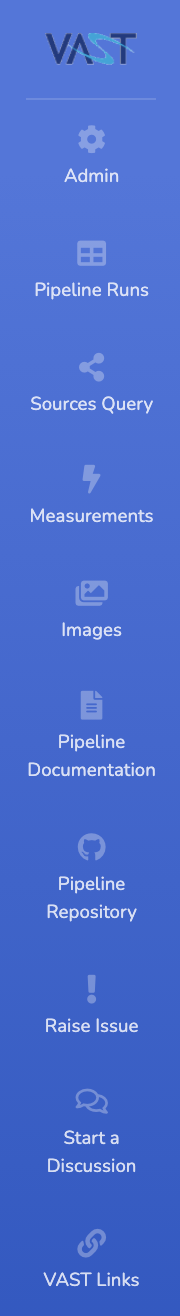
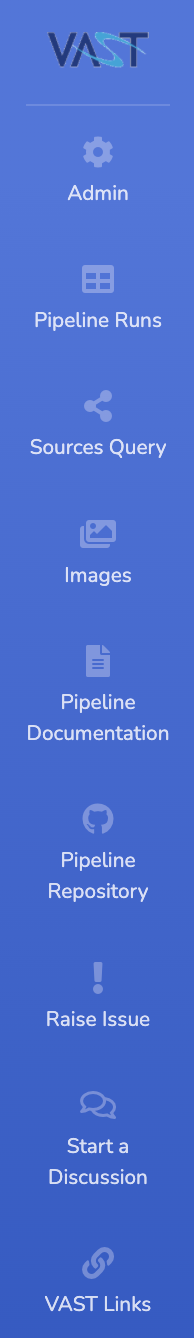
Remove excessive measurement tables
- Removed measurement list page from website.
- Removed measurements table from run detail page.
- Updated docs to reflect important changes.

diff --git a/templates/run_detail.html b/templates/run_detail.html
@@ -308,7 +308,7 @@
             <i class="fa fa-chevron-down pull-right"></i>
             Generate Arrow Files Log File
           </a>
-          <div class="float-right" id="restorelogfileSelector">
+          <div class="float-right" id="genarrowLogfileSelector">
             <select name="genarrowlogs" id="genarrowlogs">
               {% for log in genarrow_log_files %}
                 <option value="{{ log }}">{{ log }}</option>
@@ -339,7 +339,7 @@
         <div class="collapse show" id="collapseImages">
           <div class="card-body">
             <div class="table-responsive">
-              <table class="table table-bordered table-striped table-hover" id="{{ datatables.0.table_id }}" width="100%" cellspacing="0">
+              <table class="table table-bordered table-striped table-hover" id="dataTable" width="100%" cellspacing="0">
                 <thead>
                   <tr>
                     {% for name in datatables.0.colsNames %}
@@ -350,43 +350,6 @@
                 <tfoot>
                   <tr>
                     {% for name in datatables.0.colsNames %}
-                      <th>{{ name }}</th>
-                    {% endfor %}
-                  </tr>
-                </tfoot>
-              </table>
-            </div>
-          </div>
-        </div>
-      </div>
-    </div>
-  </div>
-
-  <!-- Measurements table -->
-  <div class="row">
-    <div class="col">
-      <div class="card shadow mb-4">
-        <h6 class="card-header m-0 font-weight-bold text-primary">
-          <a data-toggle="collapse" href="#collapseMeas" aria-expanded="true" aria-controls="collapseMeas" id="measHeader" class="d-block">
-            <i class="fa fa-chevron-down pull-right"></i>
-            Measurements
-          </a>
-        </h6>
-        <!-- Card Content - Collapse -->
-        <div class="collapse show" id="collapseMeas">
-          <div class="card-body">
-            <div class="table-responsive">
-              <table class="table table-bordered table-striped table-hover" id="{{ datatables.1.table_id }}" width="100%" cellspacing="0">
-                <thead>
-                  <tr>
-                    {% for name in datatables.1.colsNames %}
-                      <th>{{ name }}</th>
-                    {% endfor %}
-                  </tr>
-                </thead>
-                <tfoot>
-                  <tr>
-                    {% for name in datatables.1.colsNames %}
                       <th>{{ name }}</th>
                     {% endfor %}
                   </tr>

diff --git a/templates/base.html b/templates/base.html
@@ -77,14 +77,6 @@
         </a>
       </li>
 
-      <!-- Nav Item - Measurements -->
-      <li class="nav-item">
-        <a class="nav-link collapsed" href="{% url 'vast_pipeline:measurement_index' %}">
-          <i class="fas fa-fw fa-bolt"></i>
-          <span>Measurements</span>
-        </a>
-      </li>
-
       <!-- Nav Item - Images -->
       <li class="nav-item">
         <a class="nav-link collapsed" href="{% url 'vast_pipeline:image_index' %}">

diff --git a/templates/index.html b/templates/index.html
@@ -83,7 +83,6 @@
                 <i class="fas fa-bolt fa-2x text-gray-300"></i>
               </div>
             </div>
-            <a href="{% url 'vast_pipeline:measurement_index' %}" class="stretched-link"></a>
           </div>
         </div>
     </div>

diff --git a/vast_pipeline/views.py b/vast_pipeline/views.py
@@ -674,7 +674,7 @@ def RunDetail(request, id):
     )
 
     image_datatable = {
-        'table_id': 'imageTable',
+        'table_id': 'dataTable',
         'api': (
             reverse('vast_pipeline:api_pipe_runs-images', args=[p_run['id']]) +
             '?format=datatables'
@@ -697,66 +697,9 @@ def RunDetail(request, id):
         'order': [1, 'asc']
     }
 
-    meas_fields = [
-        'name',
-        'ra',
-        'ra_err',
-        'uncertainty_ew',
-        'dec',
-        'dec_err',
-        'uncertainty_ns',
-        'flux_peak',
-        'flux_peak_err',
-        'flux_peak_isl_ratio',
-        'flux_int',
-        'flux_int_err',
-        'flux_int_isl_ratio',
-        'frequency',
-        'compactness',
-        'snr',
-        'has_siblings',
-        'forced'
-    ]
-
-    meas_colsfields = generate_colsfields(
-        meas_fields,
-        {'name': reverse('vast_pipeline:measurement_detail', args=[1])[:-2]},
-        not_searchable_col=['frequency']
-    )
-
-    meas_datatable = {
-        'table_id': 'measTable',
-        'api': (
-            reverse('vast_pipeline:api_pipe_runs-measurements', args=[p_run['id']]) +
-            '?format=datatables'
-        ),
-        'colsFields': meas_colsfields,
-        'colsNames': [
-            'Name',
-            'RA (deg)',
-            'RA Error (arcsec)',
-            'Uncertainty EW (arcsec)',
-            'Dec (deg)',
-            'Dec Error (arcsec)',
-            'Uncertainty NS (arcsec)',
-            'Peak Flux (mJy/beam)',
-            'Peak Flux Error (mJy/beam)',
-            'Peak Flux Isl. Ratio',
-            'Int. Flux (mJy)',
-            'Int. Flux Error (mJy)',
-            'Int. Flux Isl. Ratio',
-            'Frequency (MHz)',
-            'Compactness',
-            'SNR',
-            'Has siblings',
-            'Forced Extraction'
-        ],
-        'search': True,
-    }
-
     context = {
         "p_run": p_run,
-        "datatables": [image_datatable, meas_datatable],
+        "datatables": [image_datatable],
         "d3_celestial_skyregions": get_skyregions_collection(run_id=id),
         "static_url": settings.STATIC_URL,
         "log_files": log_files,
@@ -2582,11 +2525,11 @@ class UtilitiesSet(ViewSet):
         ned_results = self._external_search_error_handler(
             external_query.ned, coord, radius, "NED", request
         )
-        tns_results = self._external_search_error_handler(
-            external_query.tns, coord, radius, "TNS", request
-        )
+        # tns_results = self._external_search_error_handler(
+        #     external_query.tns, coord, radius, "TNS", request
+        # )
 
-        results = simbad_results + ned_results + tns_results
+        results = simbad_results + ned_results # + tns_results
         serializer = ExternalSearchSerializer(data=results, many=True)
         serializer.is_valid(raise_exception=True)
         return Response(serializer.data)

diff --git a/docs/exploringwebsite/measurementdetail.md b/docs/exploringwebsite/measurementdetail.md
@@ -1,22 +1,10 @@
-# Measurement Pages
-
-This page details the website pages for information on the measurements.
-
-## List of Measurements
-
-A list of measurements that have been ingested into the pipeline database from **all** pipeline runs, along with their statistics, is shown on this page.
-From this page the full detail page of a specific measurement can be accessed by clicking on the name of the measurement. 
-Explanation of the table options can be found in the [DataTables section](datatables.md).
-
-![!Pipeline measurements table.](../img/measurements-list.png){: loading=lazy }
-
-## Measurement Detail Page
+# Measurement Detail Page
 
 This page presents all the information about the selected measurement, including a postage stamp cutout of the component.
 
 ![!Measurement detail page.](../img/measurement-detail1.png){: loading=lazy }
 
-### SIMBAD, NED, Previous & Next Buttons
+## SIMBAD, NED, Previous & Next Buttons
 
 These buttons do the following:
 
@@ -25,18 +13,18 @@ These buttons do the following:
 * **Previous**: Navigates to the previous measurement by `id` value.
 * **Next**: Navigates to the next measurement by `id` value.
 
-### Details
+## Details
 
 A text representation of details of the measurement.
 
-### Aladin Lite Viewer
+## Aladin Lite Viewer
 
 [Aladin Lite Documentation](https://aladin.u-strasbg.fr/AladinLite/doc/){ target=_blank }.
 
 The central panel contains an Aladin Lite viewer, which by default displays the HIPS image from the [Rapid ASKAP Continuum Survey](https://research.csiro.au/racs/){ target=_blank }, centred on the location of the measurement.
 Other surveys are available such as all epochs of the VAST Pilot Survey (including Stokes V) and other wavelength surveys such as 2MASS.
 
-### JS9 Viewer
+## JS9 Viewer
 
 [JS9 website](https://js9.si.edu){ target=_blank }.
 
@@ -45,19 +33,19 @@ The right panel contains a JS9 viewer showing the postage stamp FITS image of th
 !!! note
     If the image data is removed from its location when the pipeline run was processed the JS9 viewer will no longer work.
 
-### User Comments
+## User Comments
 
 Users are able to read and post comments on a measurement using this form.
 
 ![!Measurement detail page: user comments.](../img/measurement-detail2.png){: loading=lazy }
 
-### Sources Table
+## Sources Table
 
 The sources table shows all the sources, from all pipeline runs, that the measurement is associated to.
 Explanation of the table options can be found on the overview page [here](websiteoverview.md#data-tables).
 
 ![!Measurement detail page: source and siblings tables.](../img/measurement-detail3.png){: loading=lazy }
 
-### Siblings Table
+## Siblings Table
 
 The siblings table displays all other measurements that are a sibling of the current measurement, i.e., the measurements belong to the same island (as determined by `Selavy`).

diff --git a/docs/exploringwebsite/websiteoverview.md b/docs/exploringwebsite/websiteoverview.md
@@ -11,7 +11,8 @@ For admins, refer to the following pages for details of the configuration and se
 ![!VAST Pipeline homepage.](../img/homepage.png){: loading=lazy }
 
 The homepage provides a summary of the data currently held in the pipeline instance that has been processed. The four cards at the top of the homepage provide total values
-for the amount of pipeline runs, images, measurements and sources that are stored in the database. Clicking any of them will take you to the respective overview page for the data type.
+for the amount of pipeline runs, images, measurements and sources that are stored in the database. 
+Clicking any of them will take you to the respective overview page for the data type (excluding measurements).
 
 !!! note
     The totals presented on the homepage are totals for all pipeline runs combined!
@@ -50,13 +51,6 @@ See the [Source Query](sourcequery.md) section.
 
 Takes the user to the source query page, where users can search for sources by defining a set of thresholds and feature requirements. 
 From the results users can also access the detail page for individual sources.
-
-### Measurements
-
-See the [Measurement Pages](measurementpages.md) section.
-
-Navigates the user to the measurements page that features a table containing all the measurements currently held in the database. 
-From here users can also access the detail page for individual measurements.
 
 ### Images
 

diff --git a/CHANGELOG.md b/CHANGELOG.md
@@ -76,10 +76,12 @@ The format is based on [Keep a Changelog](https://keepachangelog.com/en/1.0.0/),
 
 #### Removed
 
+- Removed Measurements table page and measurements table from run detail page [#636](https://github.com/askap-vast/vast-pipeline/pull/636).
 - Removed the unique constraint on `models.Measurement.name` [#583](https://github.com/askap-vast/vast-pipeline/pull/583).
 
 #### List of PRs
 
+- [#636](https://github.com/askap-vast/vast-pipeline/pull/636): fix, doc: Remove excessive measurement tables.
 - [#633](https://github.com/askap-vast/vast-pipeline/pull/633): fix: URI encode NED object names.
 - [#632](https://github.com/askap-vast/vast-pipeline/pull/632): fix: skip empty groups in new sources groupby-apply.
 - [#634](https://github.com/askap-vast/vast-pipeline/pull/634): dep: bump Jinja2 to v3.
